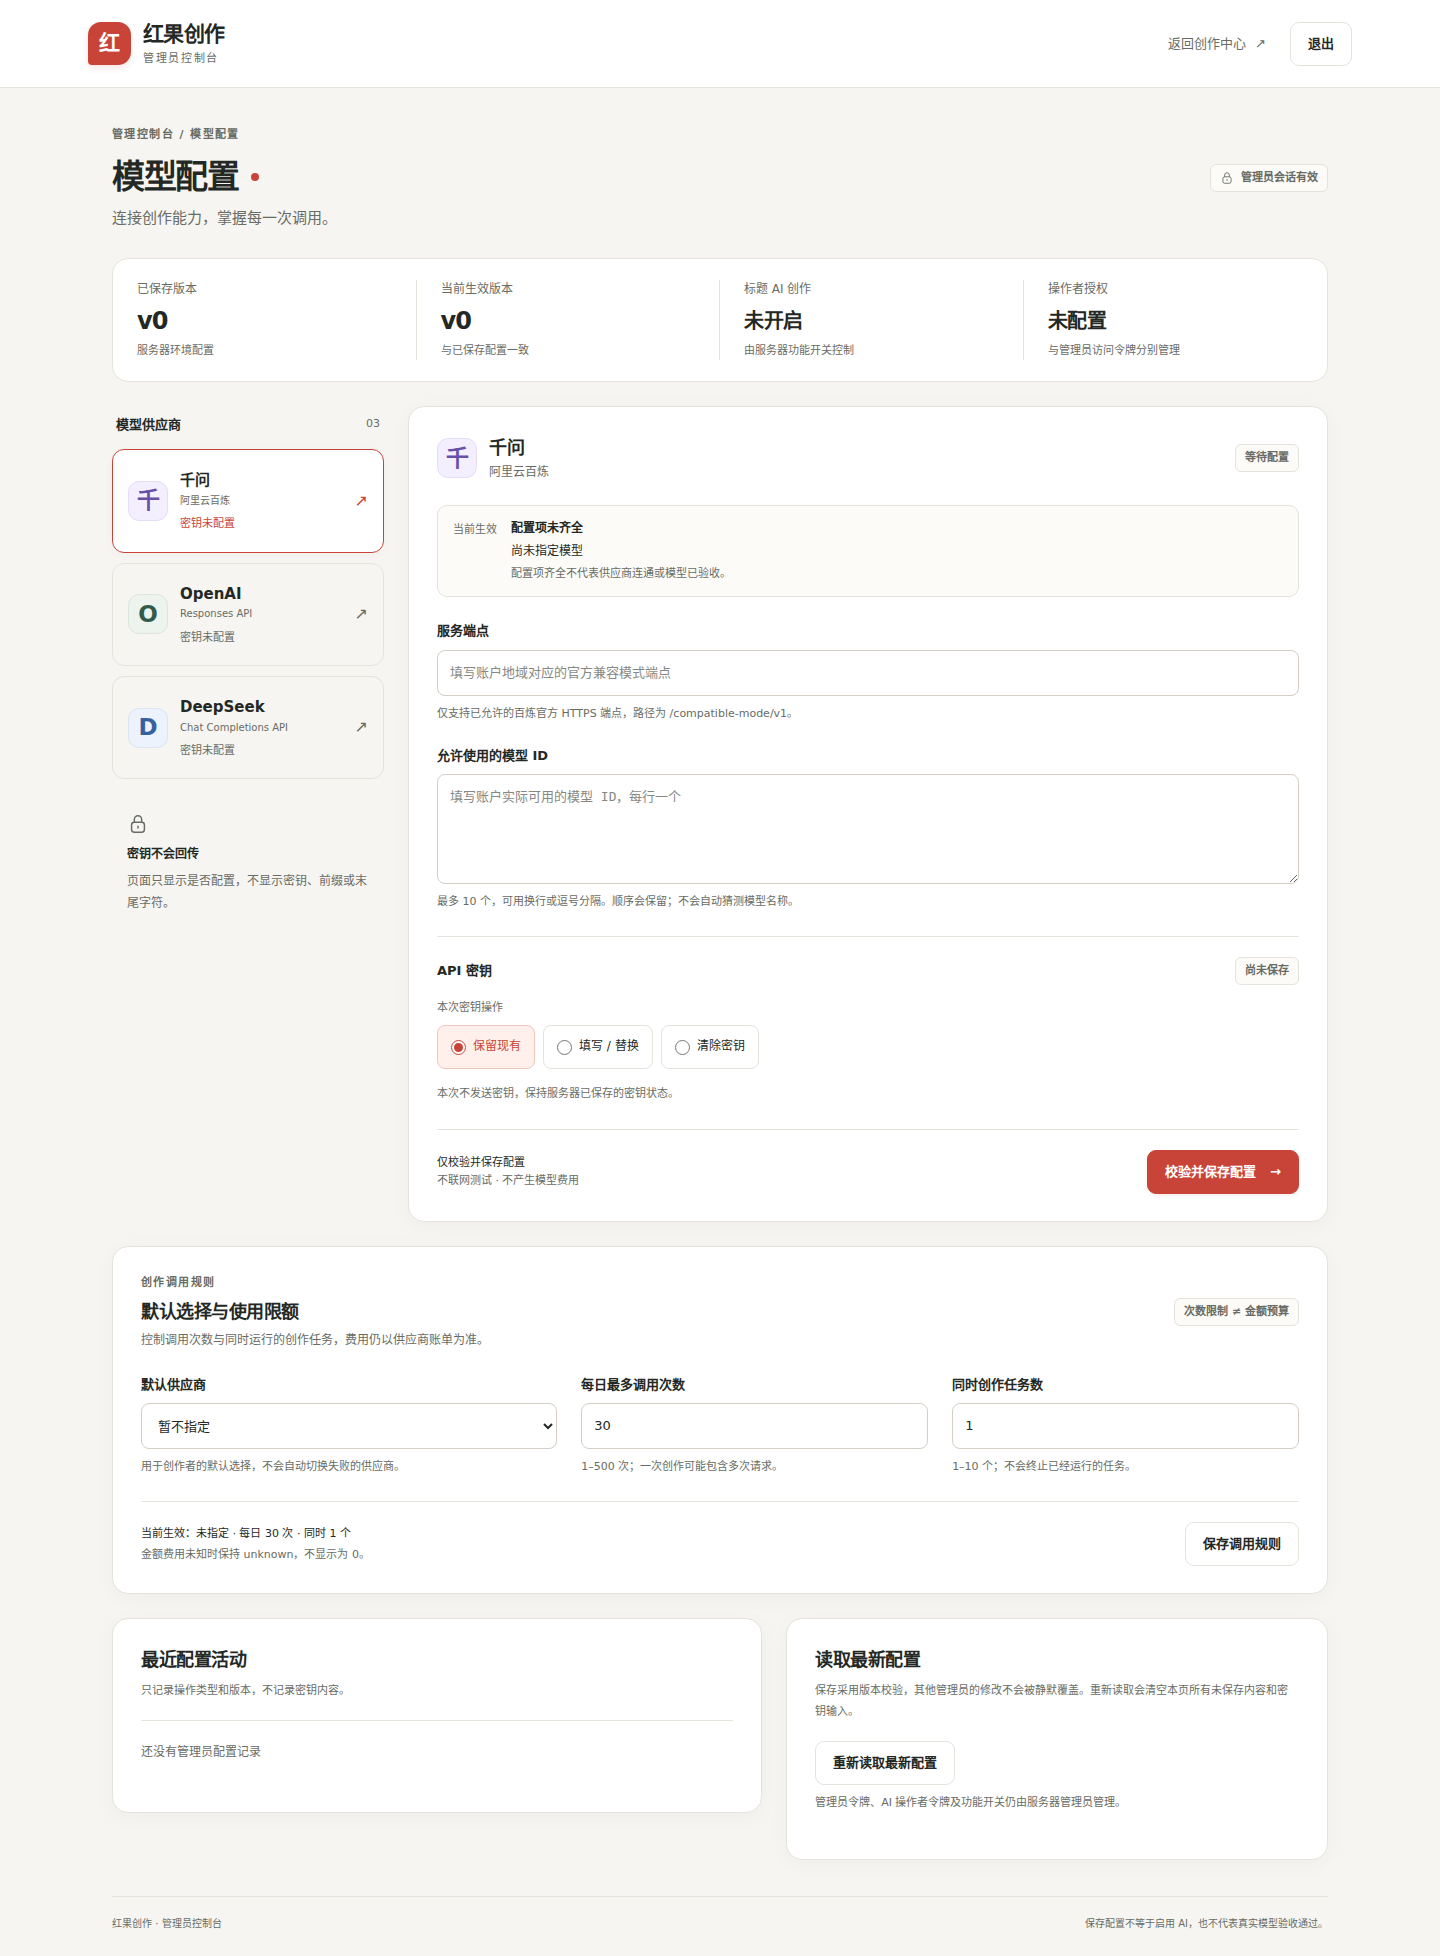
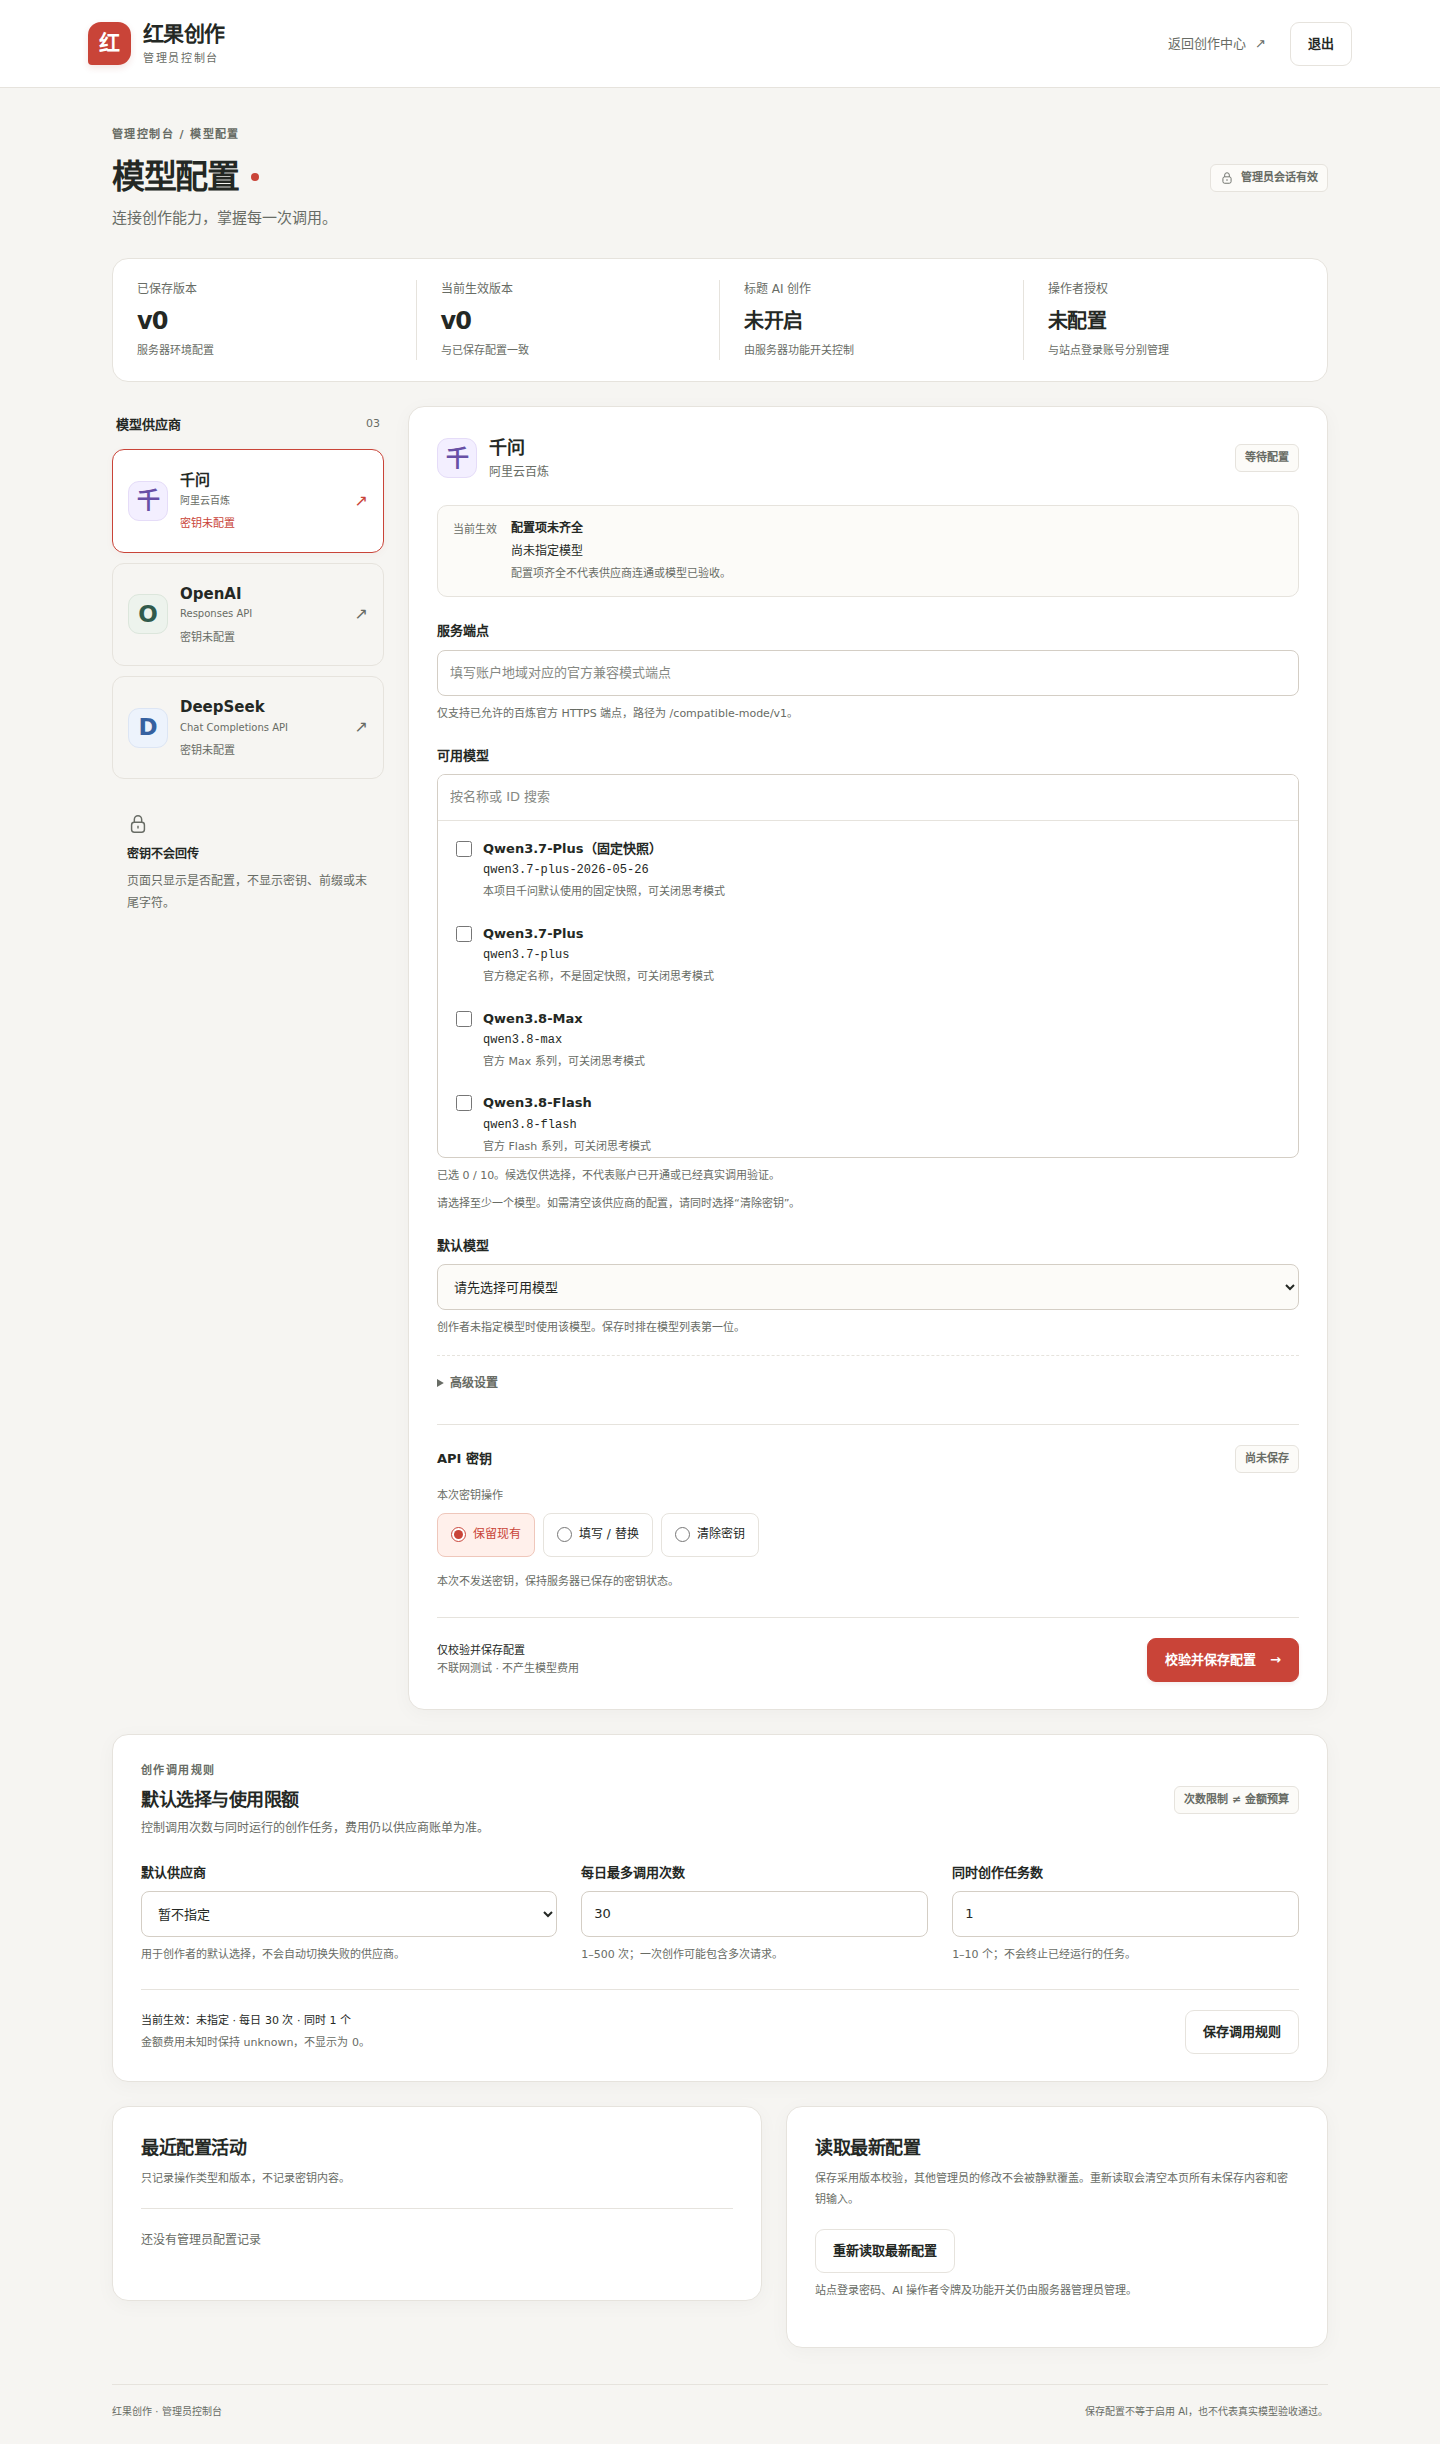
docs(admin-models): replace screenshots with the model picker CI evidence
Screenshots and browser-evidence.json come from the Admin model settings run
38068041506 on f047157 (ubuntu-24.04, real Chrome, production Next, Nest site
login and admin controller, temporary encrypted file; no database, no provider
calls). The old free-text screenshots no longer stand for the current UI.

diff --git a/docs/admin-models/README.md b/docs/admin-models/README.md
@@ -1,0 +1,21 @@
+# 管理员模型配置截图与证据
+
+本目录的截图和 `browser-evidence.json` 来自 GitHub Actions **Admin model settings** 工作流（PR #64）：
+
+- 源码提交：`f047157b19e69b9dda31c67aafd637cbf9a955c7`（模型选择器界面）
+- 运行：run `38068041506`，artifact `admin-model-settings-evidence`
+- 环境：`ubuntu-24.04`，Node 24.21.0，Playwright Chromium，Noto CJK 字体
+- 脚本：`scripts/admin-models-browser-acceptance.mjs`（`ADMIN_MODELS_BROWSER_ACCEPTANCE=local-temporary-storage`）
+
+测试链路：真实浏览器 → 生产构建的 Next（页面代理）→ Nest 站点登录与管理员控制器 → 临时加密配置文件。
+
+范围：
+- 不连接应用数据库，不请求任何模型供应商（`modelCalls: 0`）。
+- 密码和假密钥均为单次运行生成的测试值，不写入证据。截图不含真实密钥、会话 Cookie 或令牌。
+- 这是管理后台的界面与保存流程验收，不是供应商验收。截图里的模型只表示能被选择并保存，不代表账户已开通或模型已被真实调用。
+
+截图：
+- 桌面 1440px：`desktop-login.png`、`desktop-models-empty.png`、`desktop-model-picker.png`（键盘选择候选、通过高级设置添加自定义 ID、选择默认模型）、`desktop-models-saved.png`
+- 手机 390px：`mobile-models-saved.png`、`mobile-openai.png`（只显示 OpenAI 自己的候选，已选模型但尚未选择默认模型）、`mobile-login.png`
+
+每张截图都检查过无横向溢出（`scroll` = `width`）。旧的文本输入框截图已被本次运行的截图替换。
